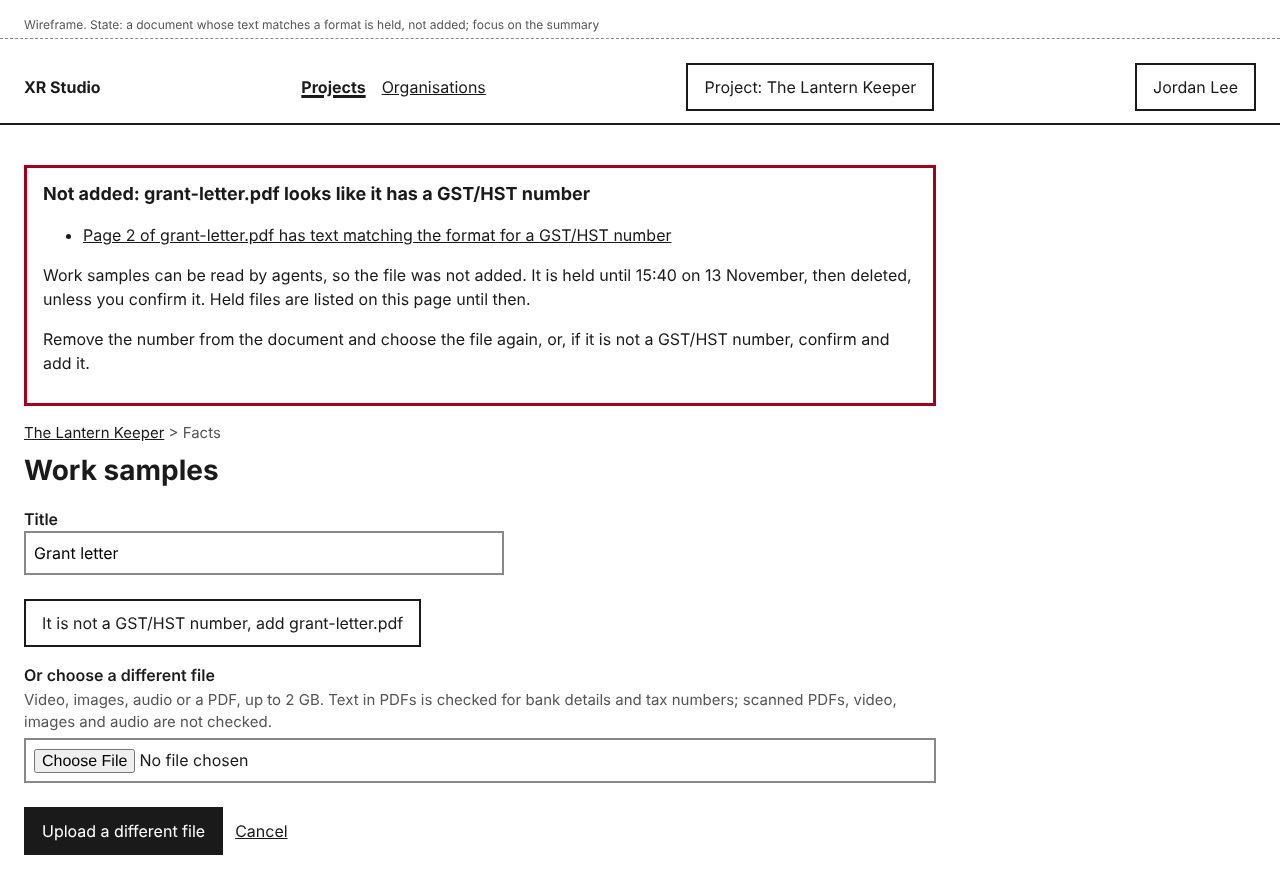
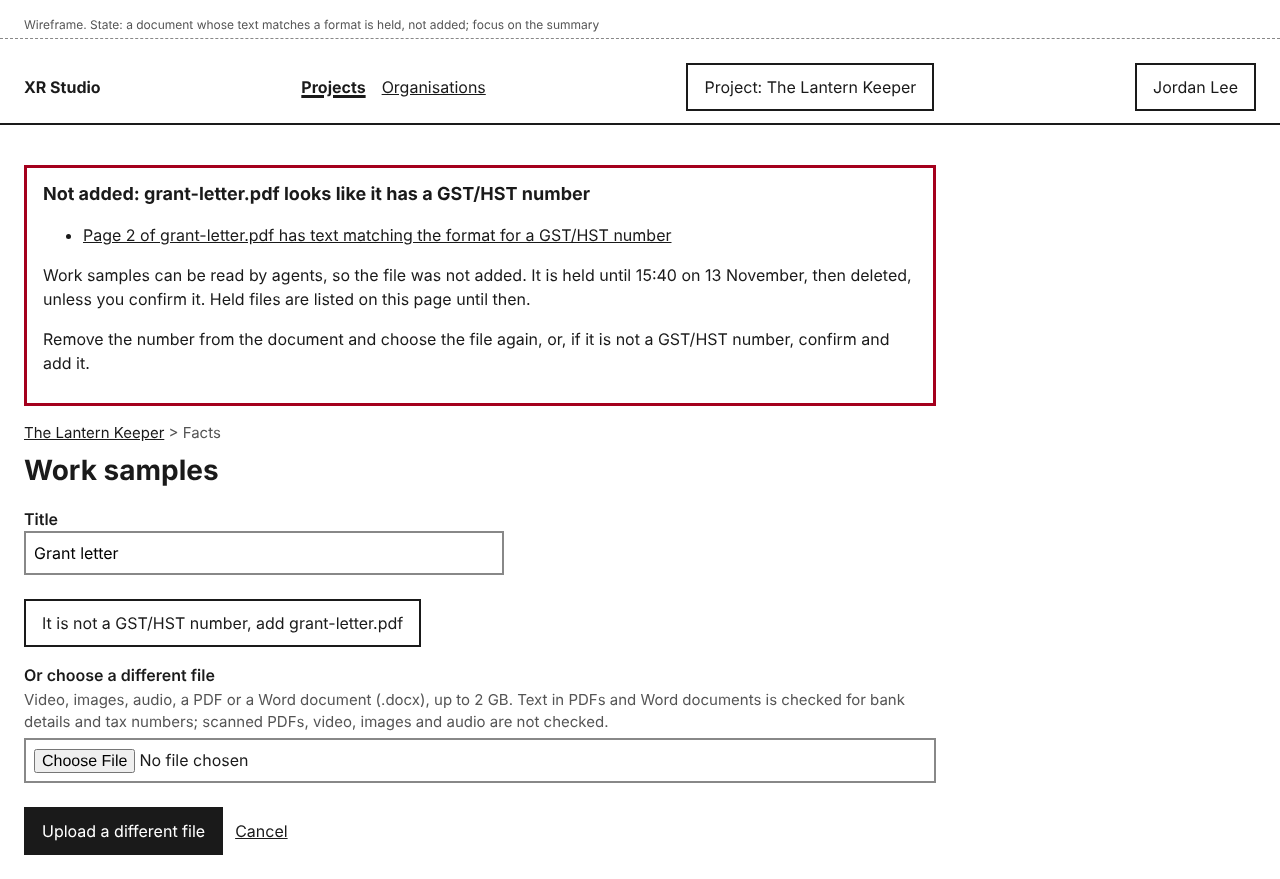
Approve the slice 2 spec and take Word documents as work samples
The approver's answers to the spec's seven open items:
- every fact entry in Activity carries its version number;
- the Overview's facts placeholder is removed;
- no funder profile field is required;
- work samples also take Word documents (.docx), checked like PDFs, and
  any other type is refused with a message; more types may come later;
- bank account numbers match any run of 15 to 20 digits;
- the funder profile notice follows the bio notice;
- the format list's history is its activity entries, with no version
  table yet.

The Word document change reaches the approved designs, five mock-ups
(re-rendered) and three user pages. Hashes refreshed; the spec is
approved.

Claude-Session: https://claude.ai/code/session_01HWRLNN16kUDL6hHLb1dGaG

Changed region(s): [[0.0312, 0.7679, 0.6875, 0.8294]]

diff --git a/docs/design/organisation-facts/work-sample-errors.html b/docs/design/organisation-facts/work-sample-errors.html
@@ -31,7 +31,7 @@
 <h2>Add a work sample</h2>
 <form method="post" enctype="multipart/form-data">
 <div class="field"><label for="sample-title">Title</label><p class="error-message" id="sample-title-error">Enter a title for the work sample.</p><input type="text" id="sample-title" name="sample-title" aria-describedby="sample-title-error" aria-invalid="true"></div>
-<div class="field"><label for="sample-file">File</label><p class="hint" id="sample-file-hint">Video, images, audio or a PDF, up to 2 GB. Text in PDFs is checked for bank details and tax numbers; scanned PDFs, video, images and audio are not checked.</p><p class="error-message" id="sample-file-error">The file is larger than 2 GB. Choose a smaller file.</p><input type="file" id="sample-file" name="sample-file" aria-describedby="sample-file-hint sample-file-error" aria-invalid="true"></div>
+<div class="field"><label for="sample-file">File</label><p class="hint" id="sample-file-hint">Video, images, audio, a PDF or a Word document (.docx), up to 2 GB. Text in PDFs and Word documents is checked for bank details and tax numbers; scanned PDFs, video, images and audio are not checked.</p><p class="error-message" id="sample-file-error">The file is larger than 2 GB. Choose a smaller file.</p><input type="file" id="sample-file" name="sample-file" aria-describedby="sample-file-hint sample-file-error" aria-invalid="true"></div>
 <div class="actions"><button type="submit">Add work sample</button></div>
 </form>
 </main>

diff --git a/docs/design/organisation-facts/work-sample-interrupted.html b/docs/design/organisation-facts/work-sample-interrupted.html
@@ -31,7 +31,7 @@
 <h2>Add a work sample</h2>
 <form method="post" enctype="multipart/form-data">
 <div class="field"><label for="sample-title">Title</label><input type="text" id="sample-title" name="sample-title" value="Company showreel 2026"></div>
-<div class="field"><label for="sample-file">File</label><p class="hint" id="sample-file-hint">Video, images, audio or a PDF, up to 2 GB. Text in PDFs is checked for bank details and tax numbers; scanned PDFs, video, images and audio are not checked.</p><p class="error-message" id="sample-file-error">The upload of showreel-2026.mp4 stopped before it finished. Choose the file again to try again.</p><input type="file" id="sample-file" name="sample-file" aria-describedby="sample-file-hint sample-file-error" aria-invalid="true"></div>
+<div class="field"><label for="sample-file">File</label><p class="hint" id="sample-file-hint">Video, images, audio, a PDF or a Word document (.docx), up to 2 GB. Text in PDFs and Word documents is checked for bank details and tax numbers; scanned PDFs, video, images and audio are not checked.</p><p class="error-message" id="sample-file-error">The upload of showreel-2026.mp4 stopped before it finished. Choose the file again to try again.</p><input type="file" id="sample-file" name="sample-file" aria-describedby="sample-file-hint sample-file-error" aria-invalid="true"></div>
 <div class="actions"><button type="submit">Add work sample</button></div>
 </form>
 </main>

diff --git a/docs/design/identifier-filter/document-held.html b/docs/design/identifier-filter/document-held.html
@@ -31,7 +31,7 @@
 <form method="post" enctype="multipart/form-data">
 <div class="field"><label for="sample-title">Title</label><input type="text" id="sample-title" name="sample-title" value="Grant letter"></div>
 <div class="actions"><button type="submit" name="intent" value="confirm" class="secondary">It is not a GST/HST number, add grant-letter.pdf</button></div>
-<div class="field"><label for="sample-file">Or choose a different file</label><p class="hint" id="sample-file-hint">Video, images, audio or a PDF, up to 2 GB. Text in PDFs is checked for bank details and tax numbers; scanned PDFs, video, images and audio are not checked.</p><input type="file" id="sample-file" name="sample-file" aria-describedby="sample-file-hint"></div>
+<div class="field"><label for="sample-file">Or choose a different file</label><p class="hint" id="sample-file-hint">Video, images, audio, a PDF or a Word document (.docx), up to 2 GB. Text in PDFs and Word documents is checked for bank details and tax numbers; scanned PDFs, video, images and audio are not checked.</p><input type="file" id="sample-file" name="sample-file" aria-describedby="sample-file-hint"></div>
 <div class="actions"><button type="submit" name="intent" value="upload">Upload a different file</button><a href="#">Cancel</a></div>
 </form>
 </main>

diff --git a/docs/design/organisation-facts/work-samples.html b/docs/design/organisation-facts/work-samples.html
@@ -28,7 +28,7 @@
 <h2>Add a work sample</h2>
 <form method="post" enctype="multipart/form-data">
 <div class="field"><label for="sample-title">Title</label><input type="text" id="sample-title" name="sample-title"></div>
-<div class="field"><label for="sample-file">File</label><p class="hint" id="sample-file-hint">Video, images, audio or a PDF, up to 2 GB. Text in PDFs is checked for bank details and tax numbers; scanned PDFs, video, images and audio are not checked.</p><input type="file" id="sample-file" name="sample-file" aria-describedby="sample-file-hint"></div>
+<div class="field"><label for="sample-file">File</label><p class="hint" id="sample-file-hint">Video, images, audio, a PDF or a Word document (.docx), up to 2 GB. Text in PDFs and Word documents is checked for bank details and tax numbers; scanned PDFs, video, images and audio are not checked.</p><input type="file" id="sample-file" name="sample-file" aria-describedby="sample-file-hint"></div>
 <div class="actions"><button type="submit">Add work sample</button></div>
 </form>
 </main>

diff --git a/docs/design/project-facts/work-samples.html b/docs/design/project-facts/work-samples.html
@@ -32,7 +32,7 @@
 <h2>Add a work sample</h2>
 <form method="post" enctype="multipart/form-data">
 <div class="field"><label for="sample-title">Title</label><input type="text" id="sample-title" name="sample-title"></div>
-<div class="field"><label for="sample-file">File</label><p class="hint" id="sample-file-hint">Video, images, audio or a PDF, up to 2 GB. Text in PDFs is checked for bank details and tax numbers; scanned PDFs, video, images and audio are not checked.</p><input type="file" id="sample-file" name="sample-file" aria-describedby="sample-file-hint"></div>
+<div class="field"><label for="sample-file">File</label><p class="hint" id="sample-file-hint">Video, images, audio, a PDF or a Word document (.docx), up to 2 GB. Text in PDFs and Word documents is checked for bank details and tax numbers; scanned PDFs, video, images and audio are not checked.</p><input type="file" id="sample-file" name="sample-file" aria-describedby="sample-file-hint"></div>
 <div class="actions"><button type="submit">Add work sample</button></div>
 </form>
 </main>

diff --git a/docs/specs/layer1-facts-identifiers-activity.md b/docs/specs/layer1-facts-identifiers-activity.md
@@ -1,27 +1,27 @@
 ---
 id: spec-layer1-facts-identifiers-activity
-status: draft
+status: approved
 derived-from:
   - docs-project-facts#see-a-projects-facts: 220d72042aed
   - docs-project-facts#edit-a-fact: ca66d0f94049
   - docs-project-facts#what-each-fact-takes: aaf02a6ffb73
   - docs-project-facts#earlier-versions-of-a-fact: 5e6ff875df26
   - docs-project-facts#restore-an-earlier-version: 0c762b844951
-  - docs-project-facts#add-and-remove-work-samples: 579a5595c3dc
+  - docs-project-facts#add-and-remove-work-samples: b764215c788d
   - docs-project-facts#if-someone-else-saved-while-you-were-editing: a942057730fb
   - docs-project-facts#who-can-do-this: cbcb39ff204d
-  - docs-project-facts#if-something-goes-wrong: a96bbeeb64c2
+  - docs-project-facts#if-something-goes-wrong: 18b06698ba44
   - docs-organisation-facts#see-an-organisations-facts: a283dfab3c28
   - docs-organisation-facts#how-projects-use-them: f7ee4047175d
   - docs-organisation-facts#edit-an-organisation-fact: 141cb39eba3d
   - docs-organisation-facts#record-a-funder-applicant-profile: db8ede0e4907
-  - docs-organisation-facts#add-standard-work-samples: 9842f3b6e473
+  - docs-organisation-facts#add-standard-work-samples: fc084e4754ec
   - docs-organisation-facts#who-can-do-this: 71879709f78c
   - docs-organisation-facts#if-something-goes-wrong: 08bffb6d2e79
-  - docs-identifier-filter#what-is-checked: 5a84619b4277
+  - docs-identifier-filter#what-is-checked: e96f28321b42
   - docs-identifier-filter#text-that-looks-like-an-identifier: 80f1210ad6e1
   - docs-identifier-filter#text-that-matches-several-formats: 8aba7e80e6da
-  - docs-identifier-filter#a-document-that-is-held: 52f22b553805
+  - docs-identifier-filter#a-document-that-is-held: 8d0c730a7e8e
   - docs-identifier-filter#keep-the-list-of-identifier-formats: 80ea5ae5f155
   - docs-identifier-filter#add-a-format: ce3441d9d1d8
   - docs-identifier-filter#turn-a-format-off-or-on: f881ff68a355
@@ -35,8 +35,8 @@ derived-from:
   - docs-activity-log#who-can-do-this: 34d9091ea09f
   - docs-activity-log#if-something-goes-wrong: df47be0ba235
   - design-project-facts: 1a327e4e7efd
-  - design-organisation-facts: fc82a302ac8a
-  - design-identifier-filter: aa3e3eab9a69
+  - design-organisation-facts: 944f01c03608
+  - design-identifier-filter: 069c84a56674
   - design-activity-log: 69b55595cccd
   - design-dashboard-shell: a56bdc0e80ae
   - decision-navigation-and-urls: c3755f7064e2
@@ -84,8 +84,8 @@ This spec derives from the approved user documentation (`docs/user/project-facts
 | # | Criterion | Source | Verified by |
 |---|---|---|---|
 | AC-9 | A Dir/Prod opens the work samples page (`/projects/<id>/facts/work-samples`) from **Edit** (or **Add**) beside **Work samples**. It lists any held uploads first (AC-27), then the samples in a captioned table with title, file, who added it and when, each with **Remove**, then **Add a work sample**. A line at the top links to the organisation's standard work samples. Other roles see the samples' titles on **Facts** only; the page answers them "This page is not available". | docs-project-facts#add-and-remove-work-samples | test: `work samples page and who may open it` |
-| AC-10 | **Add a work sample** takes a **Title** and a **File** (video, image, audio or PDF, up to 2 GB; the hint says so and says "Text in PDFs is checked for bank details and tax numbers; scanned PDFs, video, images and audio are not checked."). **Add work sample** first asks the server for a signed upload address, then sends the bytes there, showing a `progress` element and a polite status line updated every few seconds ("<n>% uploaded, about <time> left. Keep this page open."). During the upload the button reads **Uploading** and is disabled, and **Stop uploading** cancels it. When the bytes are in, the upload is registered through a command: the sample joins the record as a new Work samples version, and the list shows it. A repeated register for the same request id adds nothing more. | docs-project-facts#add-and-remove-work-samples | test: `add a work sample with progress` |
-| AC-11 | Errors, each in a summary that takes focus with the title kept: "Enter a title for the work sample.", "Choose a file to add.", and "The file is larger than 2 GB. Choose a smaller file." (checked in the browser before any bytes are sent, and again by size when registering). A file of another type is refused at registration with the same summary pattern ("Choose a video, image, audio or PDF file."). If the upload stops before it finishes, the page shows "The upload of <file> stopped before it finished. Choose the file again to try again." and nothing joins the record. | docs-project-facts#if-something-goes-wrong | test: `work sample errors and an interrupted upload` |
+| AC-10 | **Add a work sample** takes a **Title** and a **File** (video, image, audio, PDF or Word document (.docx), up to 2 GB; the hint says "Video, images, audio, a PDF or a Word document (.docx), up to 2 GB. Text in PDFs and Word documents is checked for bank details and tax numbers; scanned PDFs, video, images and audio are not checked."). **Add work sample** first asks the server for a signed upload address, then sends the bytes there, showing a `progress` element and a polite status line updated every few seconds ("<n>% uploaded, about <time> left. Keep this page open."). During the upload the button reads **Uploading** and is disabled, and **Stop uploading** cancels it. When the bytes are in, the upload is registered through a command: the sample joins the record as a new Work samples version, and the list shows it. A repeated register for the same request id adds nothing more. | docs-project-facts#add-and-remove-work-samples | test: `add a work sample with progress` |
+| AC-11 | Errors, each in a summary that takes focus with the title kept: "Enter a title for the work sample.", "Choose a file to add.", and "The file is larger than 2 GB. Choose a smaller file." (checked in the browser before any bytes are sent, and again by size when registering). A file of another type is refused, in the browser and again at registration (by its first bytes, not its name), with "Choose a video, image, audio, PDF or Word file." If the upload stops before it finishes, the page shows "The upload of <file> stopped before it finished. Choose the file again to try again." and nothing joins the record. | docs-project-facts#if-something-goes-wrong | test: `work sample errors and an interrupted upload` |
 | AC-12 | **Remove** opens a dialog with **Keep <title>** first and **Remove <title>**. Removing writes a new Work samples version without the sample and shows "<title> removed from the work samples. It stays in the earlier versions of Work samples." The file's bytes and record are kept, so restoring an earlier version brings the whole list back as it was in that version, including files removed since and without files added since. | docs-project-facts#add-and-remove-work-samples | test: `remove a work sample and restore it from an earlier version` |
 
 ### Organisation facts
@@ -95,7 +95,7 @@ This spec derives from the approved user documentation (`docs/user/project-facts
 | AC-13 | The organisation page keeps every slice 1 control. For stewards, a navigation below the buttons has **Identifier formats** and **Activity**. **Organisation facts** follows, before **Projects**, with the line "Bank details and tax numbers are not organisation facts. They will be kept in the protected store, which comes in a later release; until then keep them out of XR Studio." and **Legal name**, **Bio**, **Company history**, **Funder applicant profiles** and **Standard work samples** in that order, each with its value and "Last changed by <name>, <date and time>", or "Not recorded yet." with **Add**. | docs-organisation-facts#see-an-organisations-facts | test: `organisation page shows its facts` |
 | AC-14 | A steward edits Legal name (one line), Bio or Company history (text) at `/organisations/<id>/facts/<fact>/edit` with **Save <fact>** and **Cancel**. Saving opens the organisation page with "<Fact> saved. Every project in <organisation> now reads the new <fact>." (for example "Bio saved. Every project in Harbourfront Puppet Co. now reads the new bio."). **Earlier versions**, compare, restore and the save-made-meanwhile check behave as in AC-6 to AC-8, at `/organisations/<id>/facts/<fact>/history`, with stewards in place of Dir/Prod. | docs-organisation-facts#edit-an-organisation-fact | test: `edit, compare and restore an organisation fact` |
 | AC-15 | Organisation facts are stored once on the organisation and read from it on each request. With an organisation holding two projects, a change to the bio is shown under **From <organisation>** on both projects' **Facts** at their next load. | docs-organisation-facts#how-projects-use-them | test: `both projects read the organisation's bio` |
-| AC-16 | **Funder applicant profiles** has one line each for Canada Council for the Arts, Canada Media Fund, Creative BC and Epic MegaGrants, saying whether the profile is recorded, with **Add**, or **Edit** and **Earlier versions**, each naming the funder in visually hidden text. The profile form (`/organisations/<id>/facts/funder-profile-<funder>/edit`) has **Applicant name as registered with the funder**, **Applicant category**, **Funder's applicant profile number (optional)** and **Mandate**, and **Save profile**. No field is required. Every field is checked for identifiers. | docs-organisation-facts#record-a-funder-applicant-profile | test: `record a funder applicant profile` |
+| AC-16 | **Funder applicant profiles** has one line each for Canada Council for the Arts, Canada Media Fund, Creative BC and Epic MegaGrants, saying whether the profile is recorded, with **Add**, or **Edit** and **Earlier versions**, each naming the funder in visually hidden text. The profile form (`/organisations/<id>/facts/funder-profile-<funder>/edit`) has **Applicant name as registered with the funder**, **Applicant category**, **Funder's applicant profile number (optional)** and **Mandate**, and **Save profile**, which opens the organisation page with "Applicant profile for <funder> saved. Every project in <organisation> now reads it." No field is required. Every field is checked for identifiers. | docs-organisation-facts#record-a-funder-applicant-profile | test: `record a funder applicant profile` |
 | AC-17 | **Open standard work samples** (or **Add** beside **Standard work samples**) opens `/organisations/<id>/work-samples`, which behaves as AC-9 to AC-12 with stewards in place of Dir/Prod. | docs-organisation-facts#add-standard-work-samples | test: `standard work samples` |
 | AC-18 | Legal name, Bio, Company history and Standard work samples are seen by stewards and by every dashboard role on any of the organisation's projects. Funder applicant profiles are seen by stewards and by the Director and Producer on any of its projects; anyone else sees "Visible to the people who look after the organisation, and to the director and producer on its projects." and no profile. Only stewards edit, and a Dir/Prod who is not a steward sees no **Edit**. Only stewards see **Identifier formats** and **Activity** on the organisation page. | docs-organisation-facts#who-can-do-this | test: `organisation facts by role, with a narrow role on one project` |
 
@@ -109,14 +109,14 @@ This spec derives from the approved user documentation (`docs/user/project-facts
 | AC-22 | When one match meets several formats, the heading reads "Not saved: this looks like a <format> or a <format>" (all named), the field error ends "or confirm it is none of these.", and the button reads **It is none of these**. When several pieces match, each is listed in the summary with a link to its field. | docs-identifier-filter#text-that-matches-several-formats | test: `overlapping formats and several matches` |
 | AC-23 | **It is not a <format>** is a submit button in the edit form, so the box's text at that moment goes to the confirm page (`/projects/<id>/facts/<fact>/confirm`, or the organisation's), which shows the matching text and asks **What is it?** (required, at most 100 characters). Errors keep the answer: "Say in a few words what the number is.", "Keep your answer to 100 characters or fewer." and "Your answer also looks like a <format>. Say what it is in words, without the number." **Go back and edit the text** returns to the edit page with the text kept. **Confirm and save <fact>** writes, in one transaction, the fact version, the confirmation (person, time, formats, answer, and a keyed hash of the matching text, never the text) and the activity entry, and opens the facts page with "<Fact> saved. Your confirmation that "<text>" is not a <format> is recorded in Activity." | docs-identifier-filter#text-that-looks-like-an-identifier | test: `confirm a false match and save` |
 | AC-24 | A confirmation covers that exact matching text (compared after the rules of AC-19) for the formats named, in that fact. A later save or restore of the fact that still contains it is not stopped; any other match is. | docs-identifier-filter#text-that-looks-like-an-identifier | test: `a confirmation covers that text in that fact only` |
-| AC-25 | When an upload is registered and its bytes start with `%PDF-`, its text is extracted page by page and checked. Other files, and PDFs with no extractable text, join the record unchecked. A matching PDF does not join the record: it is held until 24 hours after registration, and the page shows "Not added: <file> looks like it has a <format>" listing "Page <n> of <file> has text matching the format for a <format>" and the deletion time, with **It is not a <format>, add <file>** (which leads to the same **What is it?** confirmation, then adds the file) and **Or choose a different file** with **Upload a different file**. | docs-identifier-filter#a-document-that-is-held | test: `a PDF holding an identifier is held, and can be confirmed` |
+| AC-25 | When an upload is registered, a PDF (bytes starting `%PDF-`) has its text extracted page by page, and a Word document (a zip holding `word/document.xml`) has the text of its body, headers, footers, footnotes and endnotes extracted; both are checked. Other files, and PDFs with no extractable text, join the record unchecked. A matching file does not join the record: it is held until 24 hours after registration, and the page shows "Not added: <file> looks like it has a <format>" listing "Page <n> of <file> has text matching the format for a <format>" for a PDF, or "<file> has text matching the format for a <format>" for a Word document, and the deletion time, with **It is not a <format>, add <file>** (which leads to the same **What is it?** confirmation, then adds the file) and **Or choose a different file** with **Upload a different file**. | docs-identifier-filter#a-document-that-is-held | test: `a PDF or Word document holding an identifier is held, and can be confirmed` |
 | AC-26 | Until it is confirmed or deleted, a held upload is listed at the top of its work samples page: "Held: <file>. Not added: its text looks like it has a <format>. It will be deleted at <time> on <date> unless you confirm it is not a <format>." with **Confirm <file> is not a <format>** and **Delete <file> now**. After its time it can no longer be confirmed and is not listed. A scheduled job, at least every 5 minutes, deletes the bytes and the held upload and writes the activity entry by XR Studio (AC-33). **Delete <file> now** does the same at once, by the person. | docs-identifier-filter#a-document-that-is-held | test: `held uploads are listed, deleted on time, and logged` |
 | AC-27 | **Identifier formats** (`/organisations/<id>/identifier-formats`) is open to stewards only; anyone else gets "This page is not available". A new organisation starts with the five starter formats On. The page has the documented introduction and a captioned table: format, what it matches with an example, **On** or **Off**, the source (**Starter**, or "<name>, <date>"), and the actions. | docs-identifier-filter#keep-the-list-of-identifier-formats | test: `identifier formats page and starter list` |
 | AC-28 | **Add a format** (`/organisations/<id>/identifier-formats/new`) has **Name**, **Pattern** and **Try it with an example**, whose polite status region is on the page and empty from load and shows "<example> matches this pattern." or "<example> does not match this pattern." after a pause in typing or on leaving the field. **Add format** saves the format On and shows "<name> added. It is checked from now on; text already saved is not changed." Errors keep every value, including the example: "Enter a name for the format.", "Enter a pattern, like ###-AA-#####." and "Use at least 6 # or A in the pattern. A shorter pattern would match ordinary numbers like dates and prices." | docs-identifier-filter#add-a-format | test: `add a format` |
 | AC-29 | **Turn off** opens a dialog with **Keep it on** first and **Turn off**; turning off shows "<name> turned off. Text that only matches it is now saved where agents can read it. Turn it on again at any time." and the row then shows **Off** and **Turn on**. **Turn on** needs no dialog and shows the AC-28 "checked from now on" notice. Text already saved is never changed by either. | docs-identifier-filter#turn-a-format-off-or-on | test: `turn a format off and on` |
 | AC-30 | **Remove** is offered for added formats only. Its dialog has **Keep <format>** first and **Remove <format>**; removing shows "<format> removed. It is no longer checked in any of <organisation>'s projects. Its removal is recorded in Activity." Starter formats cannot be removed (the command refuses it). | docs-identifier-filter#remove-a-format-you-added | test: `remove an added format` |
 | AC-31 | Anyone who may edit a fact may confirm its text; anyone who may add work samples may confirm a held upload. Only stewards change the format list. Commands from an agent-session principal to read or write any fact, register or confirm an upload, confirm a match or change the format list are refused (403), whatever roles its person holds. | docs-identifier-filter#who-can-do-this | test: `who may confirm and change formats; agents refused` |
-| AC-32 | With test identifiers for every starter format, saved into each fact, each funder profile field, a restore, a **What is it?** answer and a PDF, a search of the fact versions, registered files, confirmations and activity entries finds none of them, except in versions saved through a confirmation, which hold the text the person confirmed is not an identifier. | docs-identifier-filter#what-is-checked | test: `test identifiers reach nothing an agent can read` |
+| AC-32 | With test identifiers for every starter format, saved into each fact, each funder profile field, a restore, a **What is it?** answer, a PDF and a Word document, a search of the fact versions, registered files, confirmations and activity entries finds none of them, except in versions saved through a confirmation, which hold the text the person confirmed is not an identifier. | docs-identifier-filter#what-is-checked | test: `test identifiers reach nothing an agent can read` |
 
 ### The activity log
 
@@ -209,11 +209,12 @@ Organisation rights are not project roles: stewards edit organisation facts, kee
   - Feedback, revising drafts, side-by-side compare and restore by other roles: with drafts (feedback-and-versions, slice 4).
   - The retention job and its entries: story-contracts-and-payment-keep-records. Slice 2 only creates the role.
   - The full funder program list: story-funding-program-list.
-  - Checking images, audio, video, scanned PDFs, spreadsheets and other documents.
+  - Checking images, audio, video and scanned PDFs, and accepting other document types (spreadsheets, older .doc files): later, each checked if it holds text (approver's decision, 2026-11-12).
   - The S3 transport, SES and any deployment.
 
 ## APIs and assumptions
 
+- New dependency: `fflate` 0.8.3 (MIT, no dependencies, maintained), to read a Word document's zip; its text is taken from the `w:t` elements of the XML parts named in AC-25. Its `unzipSync` API is checked against the installed types before use (WA-006).
 - New dependency: `unpdf` 2.1.0 (MIT, no dependencies, published 2026-10-30, maintained by the unjs project), for PDF text by page. Its `extractText` API and its options for per-page text are checked against the installed type definitions before use (WA-006). If it cannot run in a Next.js server function, `pdfjs-dist` 6.5.438 (Apache-2.0) is the fallback.
 - Uploads are sent with `XMLHttpRequest`, whose `upload` progress events drive AC-10; `fetch` has no upload progress.
 - Assumptions that could be wrong:
@@ -239,15 +240,15 @@ Organisation rights are not project roles: stewards edit organisation facts, kee
 
 Approver's decisions already made (2026-11-12, in the designs): who sees and edits each fact; four funders until the program list; work samples up to 2 GB; only PDFs checked, scanned PDFs not; held uploads deleted after 24 hours and the deletion logged; the format list per organisation, with patterns of at least 6 `#` or `A` and letters in either case; confirmations logged where the item lives; answers over 100 characters refused with a message; times in the viewer's zone and whole-day filters; the parts of feedback-and-versions and read-activity-log left for later.
 
-Open for the approver:
+Approver's decisions on this spec (2026-11-12):
 
-1. `[open]` Every fact entry carries its version number ("Saved the budget (version 2)"), though two mock-ups show entries without one. Proposed: always show it, since it reveals no value and matches the earlier versions list.
-2. `[open]` The slice 1 Overview's "No project facts yet." placeholder is removed, since facts have their own tab and no design shows facts on the Overview.
-3. `[open]` No funder profile field is required, because the design gives no message for a missing one.
-4. `[open]` A file of a type other than video, image, audio or PDF is refused with "Choose a video, image, audio or PDF file.", a message the design does not give. Proposed because the hint lists the types and the browser's file picker can be bypassed.
-5. `[open]` Bank account numbers are matched as any run of 15 to 20 digits, so a 16-digit payment card also reads as a bank account number. Both are named, as overlapping formats are (AC-22).
-6. `[open]` The organisation's funder profile notice. Proposed: "Applicant profile for <funder> saved. Every project in <organisation> now reads it.", following the bio notice; no mock-up shows one.
-7. `[open]` decision-identifier-format-list calls the format list "versioned working state". This spec keeps the current list in `identifier_format` and its history in the organisation's activity entries, with no version table, since nothing in slice 2 shows or restores an earlier list. A version table can be added when a story needs one.
+1. Every fact entry in Activity carries its version number ("Saved the budget (version 2)"), including where a mock-up shows one without.
+2. The slice 1 Overview's "No project facts yet." placeholder is removed (AC-1).
+3. No funder profile field is required (AC-16).
+4. Work samples also take Word documents (.docx), whose text is checked like a PDF's. A file of any other type is refused with "Choose a video, image, audio, PDF or Word file." (AC-10, AC-11, AC-25). More types may be added later. The designs, mock-ups and user documentation were updated to match.
+5. Bank account numbers (Canada) match any run of 15 to 20 digits, so a 16-digit card number is named as both (AC-19, AC-22).
+6. After saving a funder profile the notice is "Applicant profile for <funder> saved. Every project in <organisation> now reads it." (AC-16).
+7. The format list keeps its current state in `identifier_format` and its history in the organisation's activity entries; a version table waits for a story that shows or restores an earlier list. design-identifier-filter was updated to say so.
 
 Other risks:
 

diff --git a/docs/design/identifier-filter.md b/docs/design/identifier-filter.md
@@ -36,8 +36,8 @@ Some formats overlap: any 9 digits can be a Business Number, and 9 digits that p
 
 ### A document that matches
 
-1. A person adds a work sample. When the upload is registered, the text of PDFs is checked. Scanned PDFs with no text layer, video, images and audio are not checked in slice 2, and the field's hint says so (approver's decisions, 2026-11-12). Work samples accept no other file types, so there are no text files to check.
-2. If it matches, the file is not added. It is held until a stated clock time 24 hours later, then deleted, unless confirmed (approver's decision, 2026-11-12). The deletion is recorded in the activity of whatever holds the work samples page, by "XR Studio": "Deleted grant-letter.pdf, held because its text looked like it had a GST/HST number and not confirmed within 24 hours." (approver's decision, 2026-11-12). The error summary says which page of which file matched which format, and when it will be deleted.
+1. A person adds a work sample. When the upload is registered, the text of PDFs and Word documents (.docx) is checked. Scanned PDFs with no text layer, video, images and audio are not checked in slice 2, and the field's hint says so (approver's decisions, 2026-11-12). Work samples accept video, images, audio, PDFs and Word documents; a file of any other type is refused with "Choose a video, image, audio, PDF or Word file." More types may be added later, each checked if it holds text (approver's decision, 2026-11-12).
+2. If it matches, the file is not added. It is held until a stated clock time 24 hours later, then deleted, unless confirmed (approver's decision, 2026-11-12). The deletion is recorded in the activity of whatever holds the work samples page, by "XR Studio": "Deleted grant-letter.pdf, held because its text looked like it had a GST/HST number and not confirmed within 24 hours." (approver's decision, 2026-11-12). The error summary says which file matched which format (and, for a PDF, which page; a Word document has no fixed pages), and when it will be deleted.
 3. **It is not a <format>, add <file>** is a submit button that goes to the same **What is it?** confirmation, then adds the file. **Or choose a different file** is a file field with **Upload a different file** to start again.
 4. Until it is confirmed or deleted, a held file is listed at the top of the work samples page: "Held: <file>. Not added: its text looks like it has a <format>. It will be deleted at <time> on <date> unless you confirm it is not a <format>." with **Confirm <file> is not a <format>** and **Delete <file> now**. So a person who closes the page can come back to it.
 
@@ -83,7 +83,7 @@ Some formats overlap: any 9 digits can be a Business Number, and 9 digits that p
 - **Match in a fact:** summary heading "Not saved: this looks like a <format>"; field error "Take out "<text>", or confirm it is not a <format>."
 - **Several formats:** "Not saved: this looks like a <format> or a <format>"; field error "Take out "<text>", or confirm it is none of these."
 - **Answer empty:** "Say in a few words what the number is." **Answer too long:** "Keep your answer to 100 characters or fewer." (laid out as the answer-refused mock-up). **Answer matches a format:** "Your answer also looks like a <format>. Say what it is in words, without the number."
-- **Match in a document:** "Not added: <file> looks like it has a <format>", naming the page and the deletion time.
+- **Match in a document:** "Not added: <file> looks like it has a <format>", naming the page (for a PDF) and the deletion time.
 - **Pattern too short:** "Use at least 6 # or A in the pattern. A shorter pattern would match ordinary numbers like dates and prices."
 - **Name missing:** "Enter a name for the format." **Pattern missing:** "Enter a pattern, like ###-AA-#####."
 - **A new or turned-on format:** checks from then on; text already saved is not changed. The notice says so. A restore of older text is checked like any save.
@@ -92,7 +92,7 @@ Some formats overlap: any 9 digits can be a Business Number, and 9 digits that p
 
 ## How it works
 
-- **How does the system know?** The formats are stored on the organisation as versioned working state (decision-identifier-format-list). Each check reads the list for the organisation of the project being written to.
+- **How does the system know?** The current formats are stored on the organisation (decision-identifier-format-list), and their history is the organisation's activity entries, which record every add, turn off, turn on and removal; a version table is added only when a story needs to show or restore an earlier list (approver's decision, 2026-11-12). Each check reads the list for the organisation of the project being written to.
 - **What enforces each promise?**
   - "Identifiers never reach anything an agent can read": every write to an agent-readable field, including restores and the **What is it?** answer, passes through the command layer, which runs the check before writing (decision-project-record-model). There is no other write path. A test saves test identifiers in each field, as a restore and as a confirmation answer, and uploads them in a document, then searches the facts, documents and log for them and finds none.
   - "The confirmation is logged with who and when": confirm-and-save is one command; it writes the fact version and the log entry in one transaction. A test.

diff --git a/docs/design/organisation-facts.md b/docs/design/organisation-facts.md
@@ -27,7 +27,7 @@ The company's own facts, recorded once in its organisation and read by every pro
 3. A line under the heading says that bank details and tax numbers are not organisation facts: they will be kept in the protected store, which comes in a later release; until then, keep them out of XR Studio (story-contracts-and-payment-protect-sensitive-data).
 4. **Edit** opens one fact on its own page, as for project facts (design-project-facts). On save the organisation page opens with a notice: "Bio saved. Every project in <organisation> now reads the new bio."
 5. **Funder applicant profiles** lists one profile per funder on the program list. Until the program list story arrives, the list is the four funders the business requirements name: Canada Council for the Arts, Canada Media Fund, Creative BC and Epic MegaGrants (approver's decision, 2026-11-12). Each line says whether the profile is recorded and has **Add** (not recorded yet) or **Edit** and **Earlier versions** (recorded), each naming the funder in visually hidden text. A profile is a short form: **Applicant name as registered with the funder**, **Applicant category**, **Funder's applicant profile number (optional)** and **Mandate**, with **Save profile**.
-6. **Open standard work samples** opens the same work samples page as a project's (design-project-facts), for the organisation: files with a title, who added each and when, **Remove**, any held uploads, and **Add a work sample**. Text in PDFs is checked against the identifier formats when the upload is registered; scanned PDFs, video, images and audio are not (design-identifier-filter).
+6. **Open standard work samples** opens the same work samples page as a project's (design-project-facts), for the organisation: files with a title, who added each and when, **Remove**, any held uploads, and **Add a work sample**. Text in PDFs and Word documents is checked against the identifier formats when the upload is registered; scanned PDFs, video, images and audio are not (design-identifier-filter).
 7. Every project in the organisation shows the legal name and bio under **From <organisation>** on its Facts tab (design-project-facts).
 8. **Earlier versions**, compare, restore and save conflicts work exactly as for project facts, with the same pages and wording (see design-project-facts' mock-ups); restoring an organisation fact also runs the identifier check.
 
@@ -60,7 +60,7 @@ The company's own facts, recorded once in its organisation and read by every pro
 
 - **Organisation facts** sits on the organisation page after the buttons and the **Identifier formats** and **Activity** navigation, and before **Projects**.
 - Control names: **Organisation facts**, **Identifier formats**, **Activity**, **Edit**, **Add**, **Earlier versions**, **Save <fact>**, **Save profile**, **Cancel**, **Open standard work samples**, **Add a work sample**, **Add work sample**, **Uploading**, **Stop uploading**, **Remove**.
-- Value types: Legal name is one line; Bio and Company history are text; a funder profile is the four fields above; a work sample is a title and one file (video, images, audio or PDF, up to 2 GB; approver's decision, 2026-11-12).
+- Value types: Legal name is one line; Bio and Company history are text; a funder profile is the four fields above; a work sample is a title and one file (video, images, audio, a PDF or a Word document (.docx), up to 2 GB; approver's decisions, 2026-11-12).
 
 ## States and errors
 

diff --git a/docs/user/project-facts.md b/docs/user/project-facts.md
@@ -78,7 +78,7 @@ Restored text is checked for bank details and tax numbers like any save. If an i
 You need the Director or Producer role on the project. Everyone else who can see the facts sees the list of samples on the **Facts** tab.
 
 1. On the **Facts** tab, select **Edit** beside **Work samples** (or **Add**, if there are none yet). The work samples page opens.
-2. Under **Add a work sample**, type a **Title** and choose a **File**: video, images, audio or a PDF, up to 2 GB.
+2. Under **Add a work sample**, type a **Title** and choose a **File**: video, images, audio, a PDF or a Word document (.docx), up to 2 GB.
 3. Select **Add work sample**. While the file uploads, a progress bar shows how far it has gone and about how long is left, and the button reads **Uploading**. Keep the page open. **Stop uploading** cancels it.
 
 The sample appears in the list with its title, file, who added it and when.
@@ -87,7 +87,7 @@ To remove a sample, select **Remove** beside it, then **Remove <title>** in the 
 
 ![Work samples](../design/project-facts/work-samples.png)
 
-Text in PDFs is checked for bank details and tax numbers when you add them. Scanned PDFs, video, images and audio are not checked, so do not add scans or photos of bank or tax documents. A file whose text matches is held, not added, and listed at the top of the page as **Held**; see [A document that is held](identifier-formats.md#a-document-that-is-held).
+Text in PDFs and Word documents is checked for bank details and tax numbers when you add them. Scanned PDFs, video, images and audio are not checked, so do not add scans or photos of bank or tax documents. A file whose text matches is held, not added, and listed at the top of the page as **Held**; see [A document that is held](identifier-formats.md#a-document-that-is-held).
 
 The organisation's standard work samples have their own page; the line at the top of this page links to it.
 
@@ -129,6 +129,7 @@ Every change to a fact is recorded in the project's **Activity**. See [Activity]
 | "Not saved: this looks like a <format>" | The text matches an identifier format, such as a bank account number. | See [Bank details, tax numbers and identifier formats](identifier-formats.md). |
 | "Enter a title for the work sample." | **Title** is empty. | Type a title. If the file is no longer chosen, choose it again. |
 | "Choose a file to add." | No file was chosen. | Choose a file. |
+| "Choose a video, image, audio, PDF or Word file." | The file is not one of the types work samples take. | Choose another file, or save it as a PDF first. |
 | "The file is larger than 2 GB. Choose a smaller file." | The file is over the limit. | Choose a smaller file, or a shorter cut of the video. |
 | "The upload of <file> stopped before it finished. Choose the file again to try again." | The connection dropped or the page was closed during the upload. | Choose the file again and select **Add work sample**. The title is kept. |
 | "This page is not available" | You opened the address of a fact or page your roles do not let you see. | Ask the project's director or producer. |

diff --git a/docs/user/identifier-formats.md b/docs/user/identifier-formats.md
@@ -2,7 +2,7 @@
 id: docs-identifier-filter
 status: approved
 derived-from:
-  - design-identifier-filter: aa3e3eab9a69
+  - design-identifier-filter: 069c84a56674
   - story-contracts-and-payment-protect-sensitive-data#acceptance-criteria: 2b9128383b81
 ---
 
@@ -18,7 +18,7 @@ Sometimes ordinary text only looks like an identifier: a catalogue number, a tic
 
 - Every save of a project fact or organisation fact, including a funder applicant profile.
 - Every restore of an earlier version.
-- The text of PDFs added as work samples. Scanned PDFs, video, images and audio are not checked, so do not add scans or photos of bank or tax documents.
+- The text of PDFs and Word documents (.docx) added as work samples. Scanned PDFs, video, images and audio are not checked, so do not add scans or photos of bank or tax documents.
 
 Matching ignores spaces, hyphens and dots between characters, so "046 454 286", "046-454-286" and "046454286" all match the same format. The formats used are those turned on for the project's organisation; see [Keep the list of identifier formats](#keep-the-list-of-identifier-formats).
 
@@ -52,7 +52,7 @@ If different pieces of the text match, each is listed in the message with a link
 
 ## A document that is held
 
-When you add a PDF as a work sample and its text matches a format, the file is not added. You see, for example, "Not added: grant-letter.pdf looks like it has a GST/HST number". The message says which page matched and when the file will be deleted: it is held for 24 hours, then deleted unless you confirm it.
+When you add a PDF or Word document as a work sample and its text matches a format, the file is not added. You see, for example, "Not added: grant-letter.pdf looks like it has a GST/HST number". The message says when the file will be deleted and, for a PDF, which page matched: it is held for 24 hours, then deleted unless you confirm it.
 
 ![Document held](../design/identifier-filter/document-held.png)
 

diff --git a/docs/user/organisation-facts.md b/docs/user/organisation-facts.md
@@ -2,7 +2,7 @@
 id: docs-organisation-facts
 status: approved
 derived-from:
-  - design-organisation-facts: fc82a302ac8a
+  - design-organisation-facts: 944f01c03608
   - story-project-record-set-up-organisation#acceptance-criteria: eb7a4e1f7ca0
 ---
 
@@ -55,7 +55,7 @@ The organisation's page opens with a notice, for example "Bio saved. Every proje
 Standard work samples are the company's showreel, press pack and other samples that every project can use.
 
 1. On the organisation's page, select **Open standard work samples** (or **Add** beside **Standard work samples**, if there are none yet).
-2. Under **Add a work sample**, type a **Title** and choose a **File**: video, images, audio or a PDF, up to 2 GB.
+2. Under **Add a work sample**, type a **Title** and choose a **File**: video, images, audio, a PDF or a Word document (.docx), up to 2 GB.
 3. Select **Add work sample** and keep the page open while it uploads.
 
 Removing a sample, the upload progress and held files work as on a project's work samples page. See [Add and remove work samples](project-facts.md#add-and-remove-work-samples).
